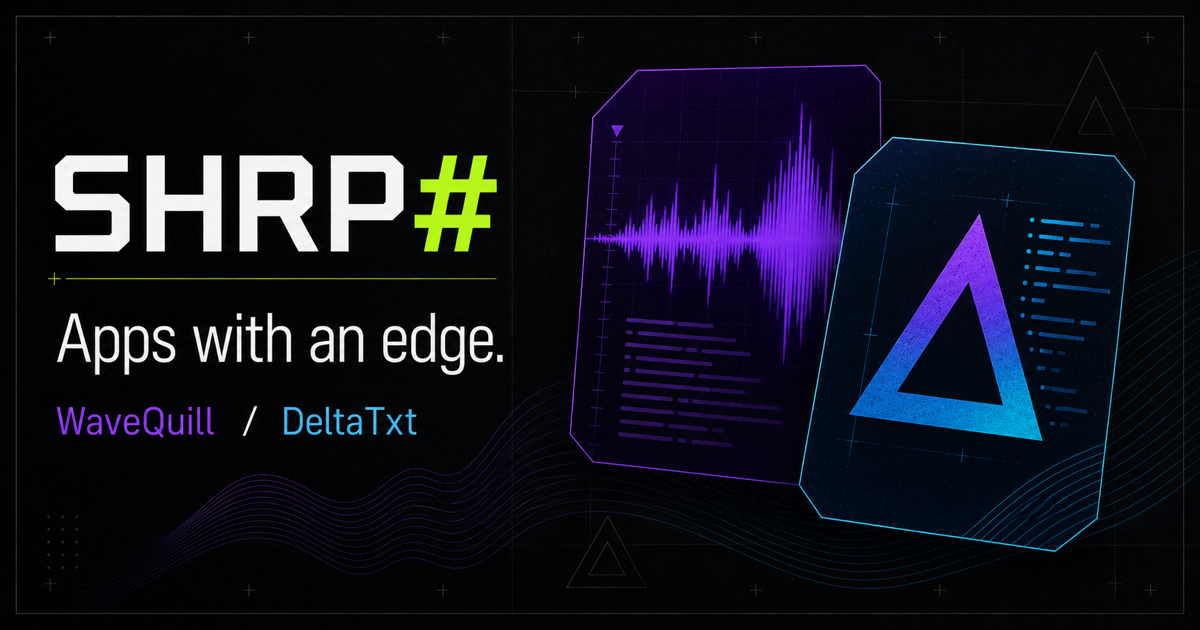
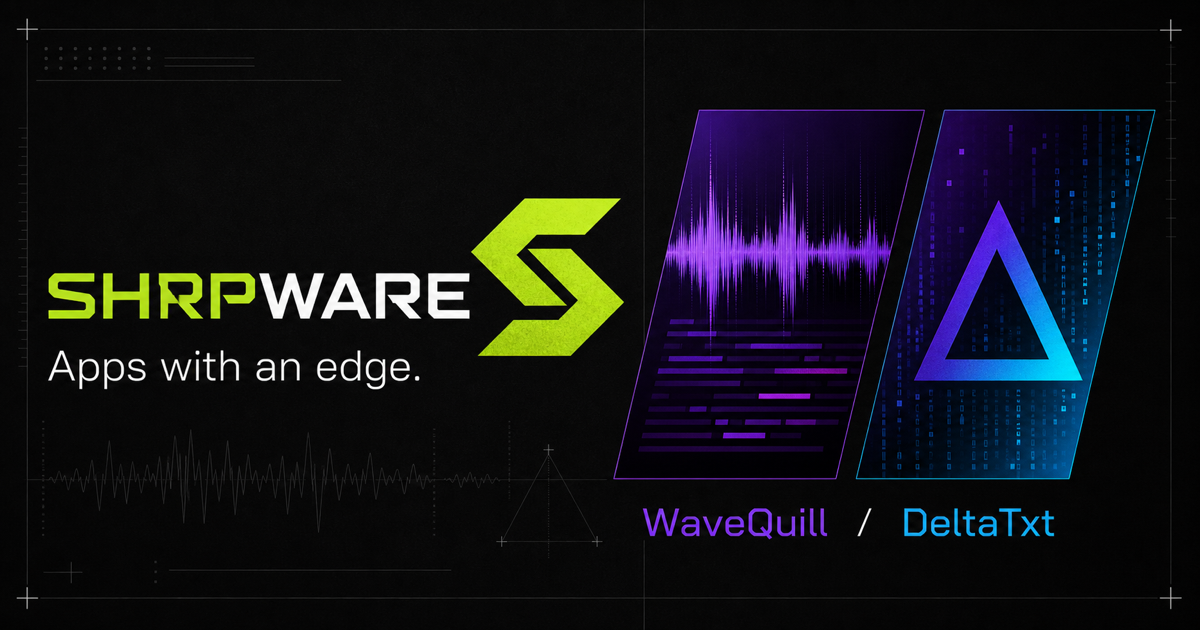
Adopt Cut S brand identity

diff --git a/app/globals.css b/app/globals.css
@@ -8,8 +8,8 @@ a { color:inherit; text-decoration:none; }
 img { display:block; max-width:100%; }
 p,h1,h2,h3,ul,ol { margin-top:0; }
 .container { width:min(1220px,calc(100% - 48px)); margin:0 auto; }
-.brand { display:inline-flex; align-items:baseline; font-size:1.15rem; font-weight:900; letter-spacing:-.04em; }
-.brand-mark { margin-left:.06em; color:var(--acid); font:900 1.22em "Courier New",monospace; }
+.brand { display:inline-flex; align-items:center; }
+.brand img { width:164px; height:auto; }
 .site-header { position:absolute; z-index:10; width:100%; color:#f7f7f2; }
 .header-inner { min-height:90px; display:flex; align-items:center; justify-content:space-between; border-bottom:1px solid rgba(255,255,255,.18); }
 nav { display:flex; gap:32px; font-size:.72rem; font-weight:800; letter-spacing:.1em; text-transform:uppercase; }
@@ -112,8 +112,8 @@ footer { color:#f2f3ee; background:var(--ink); }
 .product-footer { min-height:100px; padding:0 max(24px,calc((100vw - 1220px)/2)); display:flex; align-items:center; justify-content:space-between; color:#93978d; background:var(--ink); font-size:.68rem; text-transform:uppercase; }
 
 /* Support and privacy */
-.legal-page { min-height:100vh; background:#f5f4ef; }.legal-header .brand-mark{color:var(--acid)}.legal-content{width:min(780px,calc(100% - 40px));margin:0 auto;padding:100px 0 130px}.legal-content .product-overline{color:var(--muted)}.legal-content h1{margin-bottom:14px;font-size:clamp(3.5rem,7vw,6.5rem);line-height:.9;letter-spacing:-.065em}.effective-date{margin-bottom:46px;color:var(--muted);font:700 .65rem "Courier New",monospace;text-transform:uppercase}.legal-lede{margin-bottom:60px;font-size:1.25rem;line-height:1.6}.legal-content h2{margin:55px 0 14px;padding-top:22px;border-top:1px solid var(--line);font-size:1.65rem;letter-spacing:-.035em}.legal-content h3{margin:30px 0 8px;font-size:1.05rem}.legal-content p,.legal-content li{color:#4f524c;line-height:1.7}.legal-content a{color:#4b3ed1;text-decoration:underline;text-underline-offset:3px}.legal-content li{margin-bottom:9px}.delta-legal .legal-header{background:#0b1126}.delta-legal .legal-content a{color:#2479ff}
+.legal-page { min-height:100vh; background:#f5f4ef; }.legal-content{width:min(780px,calc(100% - 40px));margin:0 auto;padding:100px 0 130px}.legal-content .product-overline{color:var(--muted)}.legal-content h1{margin-bottom:14px;font-size:clamp(3.5rem,7vw,6.5rem);line-height:.9;letter-spacing:-.065em}.effective-date{margin-bottom:46px;color:var(--muted);font:700 .65rem "Courier New",monospace;text-transform:uppercase}.legal-lede{margin-bottom:60px;font-size:1.25rem;line-height:1.6}.legal-content h2{margin:55px 0 14px;padding-top:22px;border-top:1px solid var(--line);font-size:1.65rem;letter-spacing:-.035em}.legal-content h3{margin:30px 0 8px;font-size:1.05rem}.legal-content p,.legal-content li{color:#4f524c;line-height:1.7}.legal-content a{color:#4b3ed1;text-decoration:underline;text-underline-offset:3px}.legal-content li{margin-bottom:9px}.delta-legal .legal-header{background:#0b1126}.delta-legal .legal-content a{color:#2479ff}
 
 @media(max-width:960px){.hero-grid,.standard-grid,.studio-grid,.product-hero,.product-intro,.screenshot-section,.delta-detail,.delta-specs,.delta-limits{grid-template-columns:1fr}.hero-grid{padding-top:145px;gap:55px}.section-heading{grid-template-columns:1fr;gap:16px}.product-row{grid-template-columns:1fr}.product-copy{padding:36px}.product-media{min-height:460px}.standard-grid,.studio-grid{gap:60px}.product-hero{padding-top:70px}.product-hero-media{max-width:760px}.product-intro{gap:20px}.feature-grid,.four-grid{grid-template-columns:1fr 1fr}.feature-grid article:nth-child(2){border-right:0}.feature-grid article{border-bottom:1px solid var(--line)}.screenshot-section,.delta-detail,.delta-specs,.delta-limits{gap:55px}.delta-specs-heading{position:static}}
-@media(max-width:640px){.container{width:calc(100% - 30px)}.header-inner,.product-header,.legal-header{min-height:72px}nav{gap:15px;font-size:.59rem}.site-header nav a:nth-child(2){display:none}.hero-grid{min-height:auto;padding-top:125px;padding-bottom:70px}.hero{min-height:auto}.hero h1{font-size:clamp(4rem,20vw,6rem)}.stack-card{grid-template-columns:70px 1fr auto;gap:14px;min-height:118px}.stack-card img{width:70px;height:70px}.stack-delta{margin-left:16px}.section{padding:82px 0}.product-row{min-height:0}.product-copy{padding:28px 22px}.product-title-line{margin-bottom:28px}.product-media{min-height:330px}.code-body{min-height:270px;padding:20px 14px;font-size:.66rem}.footer-inner{min-height:150px;grid-template-columns:1fr auto;row-gap:10px}.footer-inner p{grid-column:1/-1;grid-row:2}.footer-links{gap:12px}.product-header nav a:nth-child(2),.product-header nav a:nth-child(3){display:none}.product-hero{padding:58px 20px;gap:48px}.hero-app-icon{width:88px;height:88px}.product-hero h1{font-size:4.2rem}.privacy-strip{padding:18px 20px;display:grid;grid-template-columns:1fr 1fr;text-align:center}.product-content,.screenshot-section,.delta-detail,.delta-specs,.delta-limits,.product-cta{padding:82px 20px}.feature-grid,.four-grid{grid-template-columns:1fr}.feature-grid article{min-height:230px;border-right:0}.feature-grid h3{margin-top:48px}.delta-spec-list article{grid-template-columns:1fr;gap:12px}.delta-spec-list h3{font-size:1.35rem}.limit-notes article{grid-template-columns:1fr;gap:10px}.platform-cards{grid-template-columns:1fr}.platform-cards article{border-right:0}.product-footer{padding:0 20px}.legal-content{padding:72px 0 100px}.legal-content h1{font-size:3.8rem}}
+@media(max-width:640px){.container{width:calc(100% - 30px)}.header-inner,.product-header,.legal-header{min-height:72px}.brand img{width:138px}nav{gap:15px;font-size:.59rem}.site-header nav a:nth-child(2){display:none}.hero-grid{min-height:auto;padding-top:125px;padding-bottom:70px}.hero{min-height:auto}.hero h1{font-size:clamp(4rem,20vw,6rem)}.stack-card{grid-template-columns:70px 1fr auto;gap:14px;min-height:118px}.stack-card img{width:70px;height:70px}.stack-delta{margin-left:16px}.section{padding:82px 0}.product-row{min-height:0}.product-copy{padding:28px 22px}.product-title-line{margin-bottom:28px}.product-media{min-height:330px}.code-body{min-height:270px;padding:20px 14px;font-size:.66rem}.footer-inner{min-height:150px;grid-template-columns:1fr auto;row-gap:10px}.footer-inner p{grid-column:1/-1;grid-row:2}.footer-links{gap:12px}.product-header nav a:nth-child(2),.product-header nav a:nth-child(3){display:none}.product-hero{padding:58px 20px;gap:48px}.hero-app-icon{width:88px;height:88px}.product-hero h1{font-size:4.2rem}.privacy-strip{padding:18px 20px;display:grid;grid-template-columns:1fr 1fr;text-align:center}.product-content,.screenshot-section,.delta-detail,.delta-specs,.delta-limits,.product-cta{padding:82px 20px}.feature-grid,.four-grid{grid-template-columns:1fr}.feature-grid article{min-height:230px;border-right:0}.feature-grid h3{margin-top:48px}.delta-spec-list article{grid-template-columns:1fr;gap:12px}.delta-spec-list h3{font-size:1.35rem}.limit-notes article{grid-template-columns:1fr;gap:10px}.platform-cards{grid-template-columns:1fr}.platform-cards article{border-right:0}.product-footer{padding:0 20px}.legal-content{padding:72px 0 100px}.legal-content h1{font-size:3.8rem}}
 @media(prefers-reduced-motion:reduce){html{scroll-behavior:auto}*{transition:none!important}}

diff --git a/app/apps/wavequill/privacy/page.tsx b/app/apps/wavequill/privacy/page.tsx
@@ -1,11 +1,12 @@
 import type { Metadata } from "next";
+import { Brand } from "../../../Brand";
 
 export const metadata: Metadata = { title: "WaveQuill Privacy Policy | ShrpWare", description: "Privacy policy for WaveQuill." };
 
 export default function WaveQuillPrivacy() {
   return (
     <main className="legal-page wave-legal">
-      <header className="legal-header"><a className="brand" href="/"><span>SHRP</span><span className="brand-mark">#</span></a><nav><a href="/apps/wavequill">WaveQuill</a><a href="/apps/wavequill/support">Support</a></nav></header>
+      <header className="legal-header"><Brand /><nav><a href="/apps/wavequill">WaveQuill</a><a href="/apps/wavequill/support">Support</a></nav></header>
       <article className="legal-content">
         <p className="product-overline">WAVEQUILL / PRIVACY</p><h1>Privacy policy</h1><p className="effective-date">Effective July 25, 2026</p>
         <p className="legal-lede">WaveQuill is designed to keep meeting content on your computer. We do not operate an account, analytics, advertising, or cloud-storage service for the app.</p>

diff --git a/app/apps/wavequill/support/page.tsx b/app/apps/wavequill/support/page.tsx
@@ -1,11 +1,12 @@
 import type { Metadata } from "next";
+import { Brand } from "../../../Brand";
 
 export const metadata: Metadata = { title: "WaveQuill Support | ShrpWare", description: "Support information for WaveQuill." };
 
 export default function WaveQuillSupport() {
   return (
     <main className="legal-page wave-legal">
-      <header className="legal-header"><a className="brand" href="/"><span>SHRP</span><span className="brand-mark">#</span></a><nav><a href="/apps/wavequill">WaveQuill</a><a href="/apps/wavequill/privacy">Privacy</a></nav></header>
+      <header className="legal-header"><Brand /><nav><a href="/apps/wavequill">WaveQuill</a><a href="/apps/wavequill/privacy">Privacy</a></nav></header>
       <article className="legal-content">
         <p className="product-overline">WAVEQUILL / SUPPORT</p><h1>How can we help?</h1>
         <p className="legal-lede">WaveQuill records meetings and transcribes them locally. For a question, bug report, or request, email <a href="mailto:wavequillsupport@gmail.com">wavequillsupport@gmail.com</a>.</p>

diff --git a/app/apps/deltatxt/privacy/page.tsx b/app/apps/deltatxt/privacy/page.tsx
@@ -1,11 +1,12 @@
 import type { Metadata } from "next";
+import { Brand } from "../../../Brand";
 
 export const metadata: Metadata = { title: "DeltaTxt Privacy Notice | ShrpWare", description: "Privacy notice for DeltaTxt." };
 
 export default function DeltaTxtPrivacy() {
   return (
     <main className="legal-page delta-legal">
-      <header className="legal-header"><a className="brand" href="/"><span>SHRP</span><span className="brand-mark">#</span></a><nav><a href="/apps/deltatxt">DeltaTxt</a><a href="/">Store</a></nav></header>
+      <header className="legal-header"><Brand /><nav><a href="/apps/deltatxt">DeltaTxt</a><a href="/">Store</a></nav></header>
       <article className="legal-content">
         <p className="product-overline">DELTATXT / PRIVACY</p><h1>Privacy notice</h1><p className="effective-date">Effective July 30, 2026</p>
         <p className="legal-lede">DeltaTxt is designed as a local desktop application. It requires no account and includes no telemetry, analytics, advertising, or automatic crash-report submission.</p>

diff --git a/app/apps/deltatxt/page.tsx b/app/apps/deltatxt/page.tsx
@@ -1,4 +1,5 @@
 import type { Metadata } from "next";
+import { Brand } from "../../Brand";
 
 export const metadata: Metadata = {
   title: "DeltaTxt — Change, clearly | ShrpWare",
@@ -8,7 +9,7 @@ export const metadata: Metadata = {
 export default function DeltaTxtPage() {
   return (
     <main className="product-page delta-page">
-      <header className="product-header"><a className="brand" href="/"><span>SHRP</span><span className="brand-mark">#</span></a><nav><a href="/">Store</a><a href="#features">Features</a><a href="#details">Details</a><a href="/apps/deltatxt/privacy">Privacy</a></nav></header>
+      <header className="product-header"><Brand /><nav><a href="/">Store</a><a href="#features">Features</a><a href="#details">Details</a><a href="/apps/deltatxt/privacy">Privacy</a></nav></header>
       <section className="product-hero">
         <div className="product-hero-copy">
           <p className="product-overline">SHRPWARE / APP 02</p><img className="hero-app-icon" src="/apps/deltatxt/icon.png" alt="DeltaTxt icon" />

diff --git a/app/page.tsx b/app/page.tsx
@@ -1,11 +1,11 @@
+import { Brand } from "./Brand";
+
 export default function Home() {
   return (
     <main className="store-shell">
       <header className="site-header">
         <div className="container header-inner">
-          <a className="brand" href="#top" aria-label="ShrpWare home">
-            <span>SHRP</span><span className="brand-mark">#</span>
-          </a>
+          <Brand href="#top" />
           <nav aria-label="Main navigation">
             <a href="#apps">Apps</a>
             <a href="#standard">Standard</a>
@@ -134,7 +134,7 @@ export default function Home() {
 
       <footer>
         <div className="container footer-inner">
-          <a className="brand" href="#top"><span>SHRP</span><span className="brand-mark">#</span></a>
+          <Brand href="#top" />
           <p>© 2026 ShrpWare</p>
           <div className="footer-links"><a href="/apps/wavequill">WaveQuill</a><a href="/apps/deltatxt">DeltaTxt</a></div>
         </div>

diff --git a/app/apps/wavequill/page.tsx b/app/apps/wavequill/page.tsx
@@ -1,4 +1,5 @@
 import type { Metadata } from "next";
+import { Brand } from "../../Brand";
 
 export const metadata: Metadata = {
   title: "WaveQuill — Private meeting recorder | ShrpWare",
@@ -9,7 +10,7 @@ export default function WaveQuillPage() {
   return (
     <main className="product-page wave-page">
       <header className="product-header">
-        <a className="brand" href="/"><span>SHRP</span><span className="brand-mark">#</span></a>
+        <Brand />
         <nav><a href="/">Store</a><a href="/apps/wavequill/support">Support</a><a href="/apps/wavequill/privacy">Privacy</a></nav>
       </header>
 

diff --git a/app/layout.tsx b/app/layout.tsx
@@ -6,6 +6,9 @@ export const metadata: Metadata = {
   title: "ShrpWare — Apps with an edge",
   description:
     "ShrpWare builds focused desktop software, including WaveQuill and DeltaTxt, with local control and less noise.",
+  icons: {
+    icon: "/favicon.svg",
+  },
   openGraph: {
     title: "ShrpWare — Apps with an edge",
     description:

diff --git a/app/Brand.tsx b/app/Brand.tsx
@@ -1,0 +1,11 @@
+type BrandProps = {
+  href?: string;
+};
+
+export function Brand({ href = "/" }: BrandProps) {
+  return (
+    <a className="brand" href={href} aria-label="ShrpWare home">
+      <img src="/brand/shrpware-wordmark.svg" alt="" />
+    </a>
+  );
+}

diff --git a/brand/README.md b/brand/README.md
@@ -1,0 +1,32 @@
+# ShrpWare brand
+
+## Primary identity
+
+- Name: ShrpWare
+- Wordmark: `SHRPWARE`, with `WARE` in acid green on dark backgrounds
+- Symbol: Cut S
+- Tagline: Apps with an edge.
+
+The Cut S is the compact studio mark. The full ShrpWare wordmark should be used
+whenever the audience may not already know the company name. The retired
+`SHRP#` treatment should not be used because it repeats the “sharp” idea and may
+be interpreted as a reference to C#.
+
+## Core colors
+
+- Graphite: `#0D0F0E`
+- Paper: `#F3F2EB`
+- Acid: `#C7FF2F`
+- Dark-print accent: `#607D08`
+
+## Assets
+
+- `public/brand/shrpware-wordmark.svg`: primary wordmark for dark backgrounds
+- `public/brand/shrpware-wordmark-dark.svg`: wordmark for light backgrounds
+- `public/brand/shrpware-mark.svg`: Cut S on a graphite field
+- `public/brand/shrpware-mark-transparent.svg`: transparent Cut S
+- `public/favicon.svg`: browser icon
+
+Maintain clear space around the symbol equal to roughly one quarter of its
+width. Do not add the number sign, recolor individual symbol pieces, stretch the
+assets, or place the acid mark on a low-contrast background.
